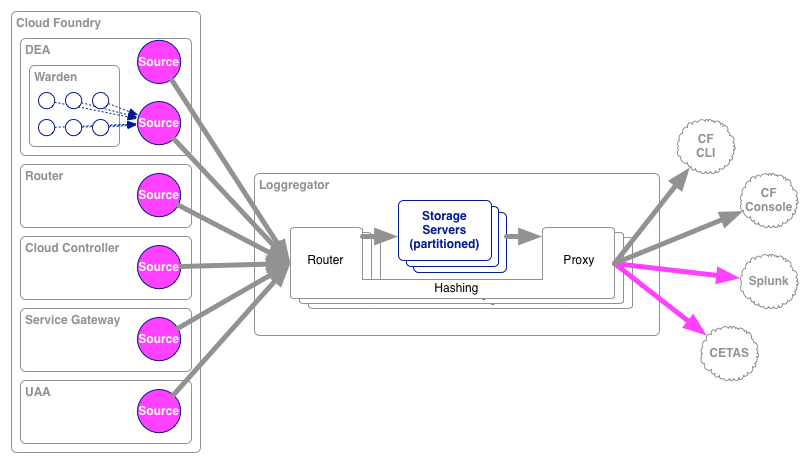
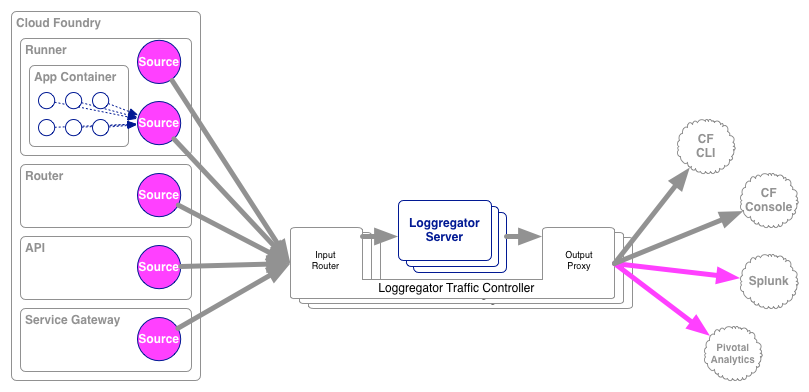
Add multi zone information to readme.

diff --git a/README.md b/README.md
@@ -46,9 +46,13 @@ Loggregator is composed of:
 
 * **Sources**: Logging agents that run on the Cloud Foundry components.  They forward logs to:
 * **Loggregator Server**: Responsible for gathering logs from the **sources**, and storing in the temporary buffers.
-* **Hashing Layer**: Makes the Loggregator Servers horizontally scalable by partitioning incoming log messages and outgoing traffic. Routes incoming log messages and proxies outgoing connections to the CLI and to drains for 3rd party partners.
+* **Traffic Controller**: Makes the Loggregator Servers horizontally scalable by partitioning incoming log messages and outgoing traffic. Routes incoming log messages and proxies outgoing connections to the CLI and to drains for 3rd party partners.
 
 Source agents emit the logging data as [protocol-buffers](https://code.google.com/p/protobuf/), and the data stays in that format throughout the system.
+
+![Loggregator Diagram](docs/loggregator.png)
+
+In a redundant CloudFoundry setup, Loggregator can be configured to survive zone failures. Log messages from non-affected zones will still make it to the end user. On AWS, availability zones could be used as redundancy zones. The following is an example of a multi zone setup with two zones.
 
 ![Loggregator Diagram](docs/loggregator.png)
 
@@ -58,7 +62,7 @@ Cloud Foundry developers can easily add source clients to new CF components that
 
 ### Deploying via BOSH
 
-Below are example snippets for deploying the DEA Logging Agent (source), Loggregator Server, and Loggregator Router (hashing layer) via BOSH.
+Below are example snippets for deploying the DEA Logging Agent (source), Loggregator Server, and Loggregator Traffic Controller via BOSH.
 
 ```yaml
 jobs:
@@ -73,6 +77,9 @@ jobs:
     default:
     - dns
     - gateway
+  properties:
+    loggregator:
+      trafficcontroller: 10.10.16.16:3456 # pick a traffic controller from the same redundancy zone as this job
 
 - name: loggregator
   template: loggregator
@@ -85,18 +92,22 @@ jobs:
 
 - name: loggregator-trafficcontroller
   template: loggregator-trafficcontroller
-  instances: 1  # Only one loggregator trafficcontroller per CF installation
+  instances: 1  # Scale out as necessary
   resource_pool: common
   networks:
   - name: cf1
     static_ips:
     - 10.10.16.16
+  properties:
+    zone: z1 # Denoting which one of the redundancy zones this traffic controller is servicing
 
 properties:
   loggregator:
-    trafficcontroller: 10.10.16.16:3456  # host:port that will receive messages emitted by Sources
-    servers: 
-    - 10.10.16.14:3456  # 
+    servers:
+      z1: # A list of loggregator servers for every redundancy zone
+      - 10.10.16.14
+    incoming_port: 3456
+    outgoing_port: 8080
 ```
 
 ### Development
